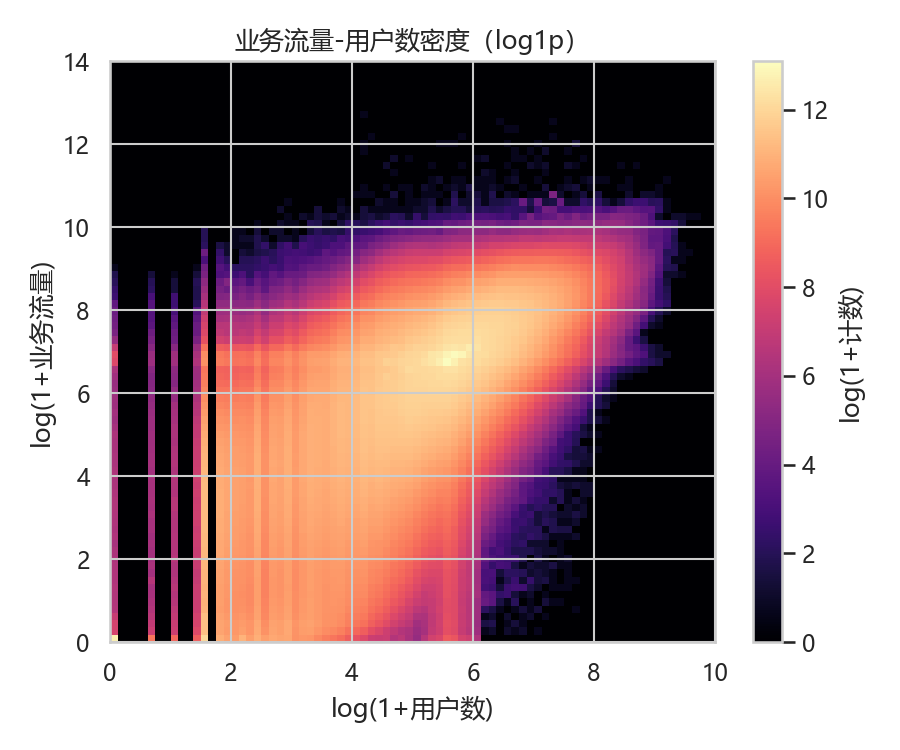
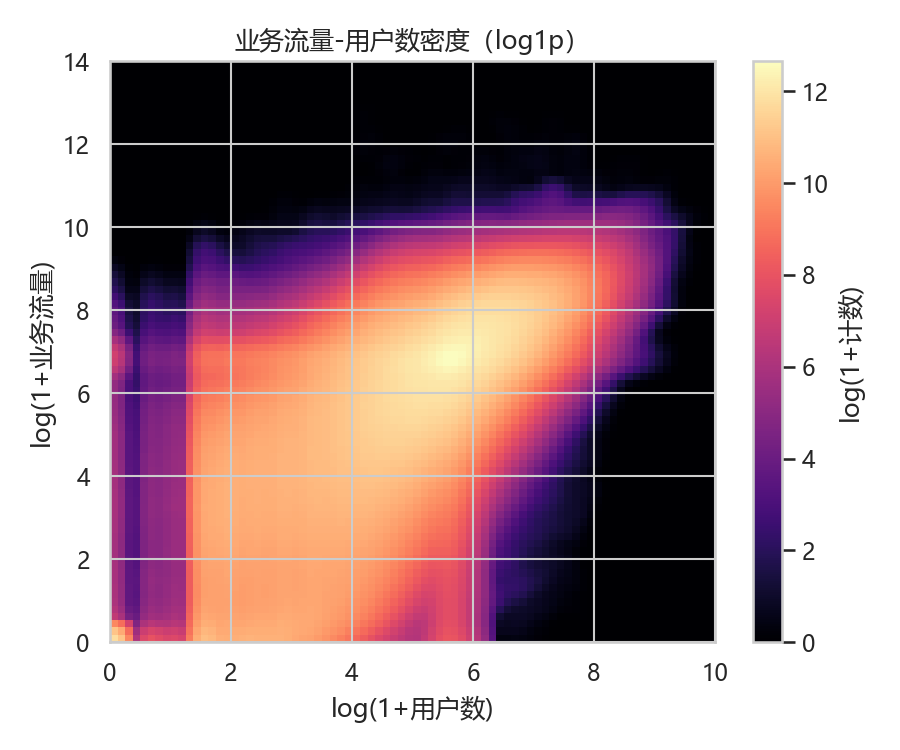
refactor(scatter): 平滑

diff --git a/section3_descriptive.py b/section3_descriptive.py
@@ -152,6 +152,28 @@ def hist_quantile(edges: np.ndarray, counts: np.ndarray, q: float) -> float:
     return float(edges[idx] + frac * (edges[idx + 1] - edges[idx]))
 
 
+def smooth_counts(counts: np.ndarray, passes: int = 2) -> np.ndarray:
+    kernel = np.array(
+        [[1.0, 2.0, 1.0], [2.0, 4.0, 2.0], [1.0, 2.0, 1.0]], dtype=np.float64
+    )
+    kernel /= kernel.sum()
+    smoothed = counts.astype(np.float64)
+    for _ in range(passes):
+        padded = np.pad(smoothed, 1, mode="edge")
+        smoothed = (
+            kernel[0, 0] * padded[:-2, :-2]
+            + kernel[0, 1] * padded[:-2, 1:-1]
+            + kernel[0, 2] * padded[:-2, 2:]
+            + kernel[1, 0] * padded[1:-1, :-2]
+            + kernel[1, 1] * padded[1:-1, 1:-1]
+            + kernel[1, 2] * padded[1:-1, 2:]
+            + kernel[2, 0] * padded[2:, :-2]
+            + kernel[2, 1] * padded[2:, 1:-1]
+            + kernel[2, 2] * padded[2:, 2:]
+        )
+    return smoothed
+
+
 def weekday_labels(values: list[int]) -> list[str]:
     mapping = {
         0: "\u5468\u4e00",
@@ -483,7 +505,8 @@ def main() -> None:
     save_fig("fig02_flow_user_box.png")
 
     plt.figure(figsize=(6, 5))
-    density = np.log1p(scatter_counts.T)
+    density_counts = smooth_counts(scatter_counts.T, passes=2)
+    density = np.log1p(density_counts)
     plt.imshow(
         density,
         origin="lower",
